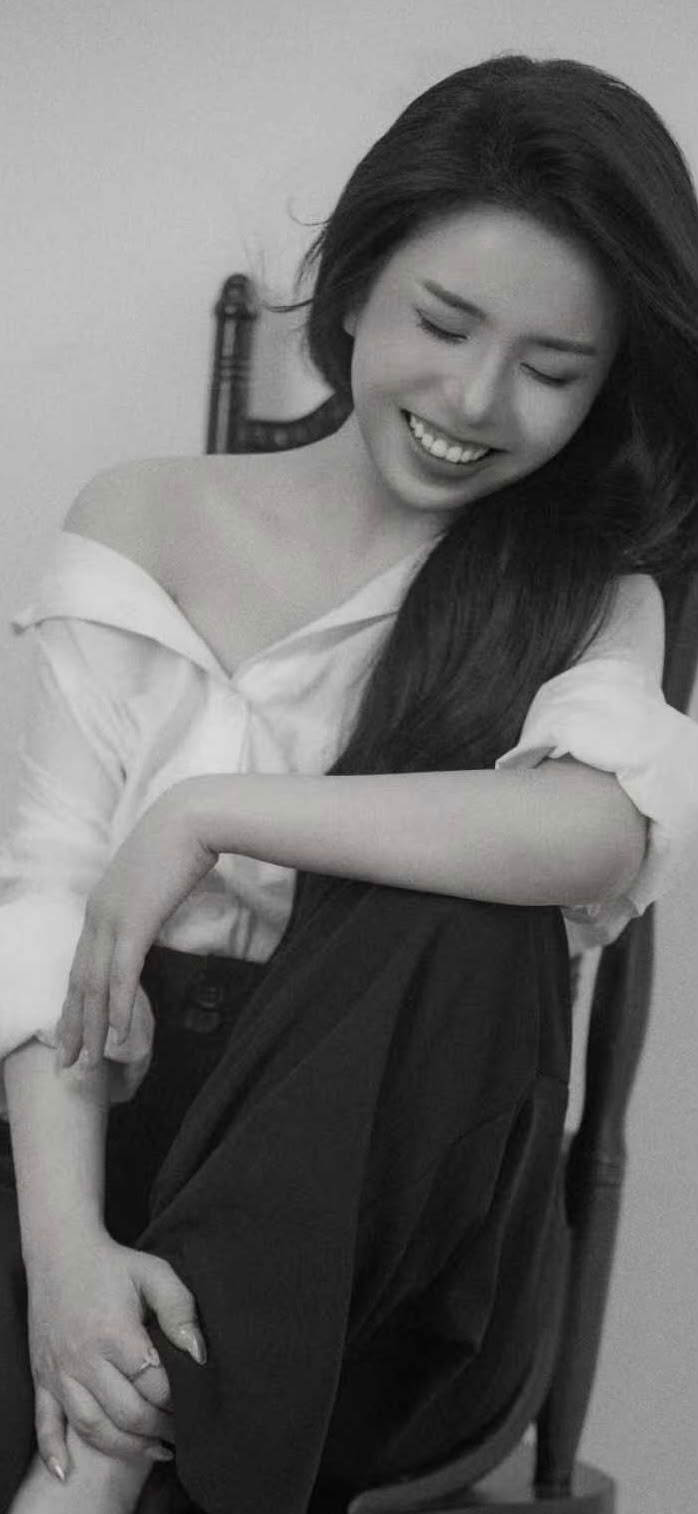
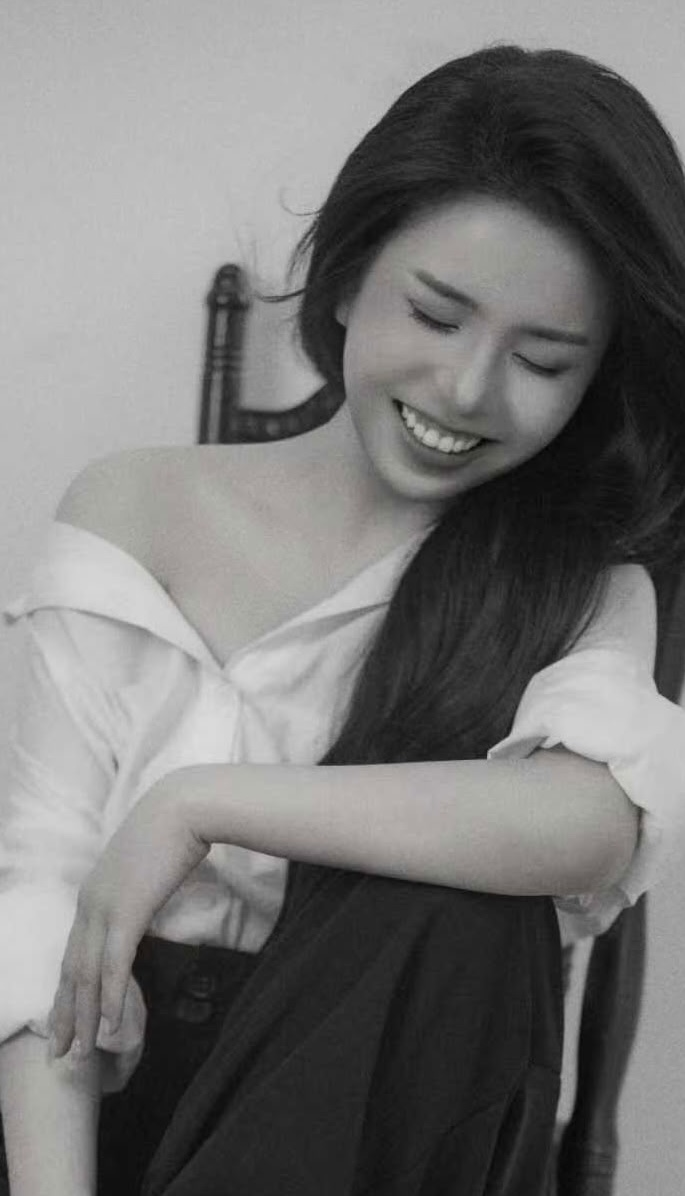
Swap founder photo for a wider crop, top-align to keep face fully visible
The new photo shows more of the face; object-top keeps it from getting
cropped by the fixed aspect-[4/5] frame.

diff --git a/components/AboutStory.tsx b/components/AboutStory.tsx
@@ -371,7 +371,7 @@ export default function AboutStory() {
                 alt="Founder of AND Intelligence"
                 fill
                 sizes="(min-width: 768px) 280px, 60vw"
-                className="object-cover"
+                className="object-cover object-top"
               />
             </Reveal>
           </div>